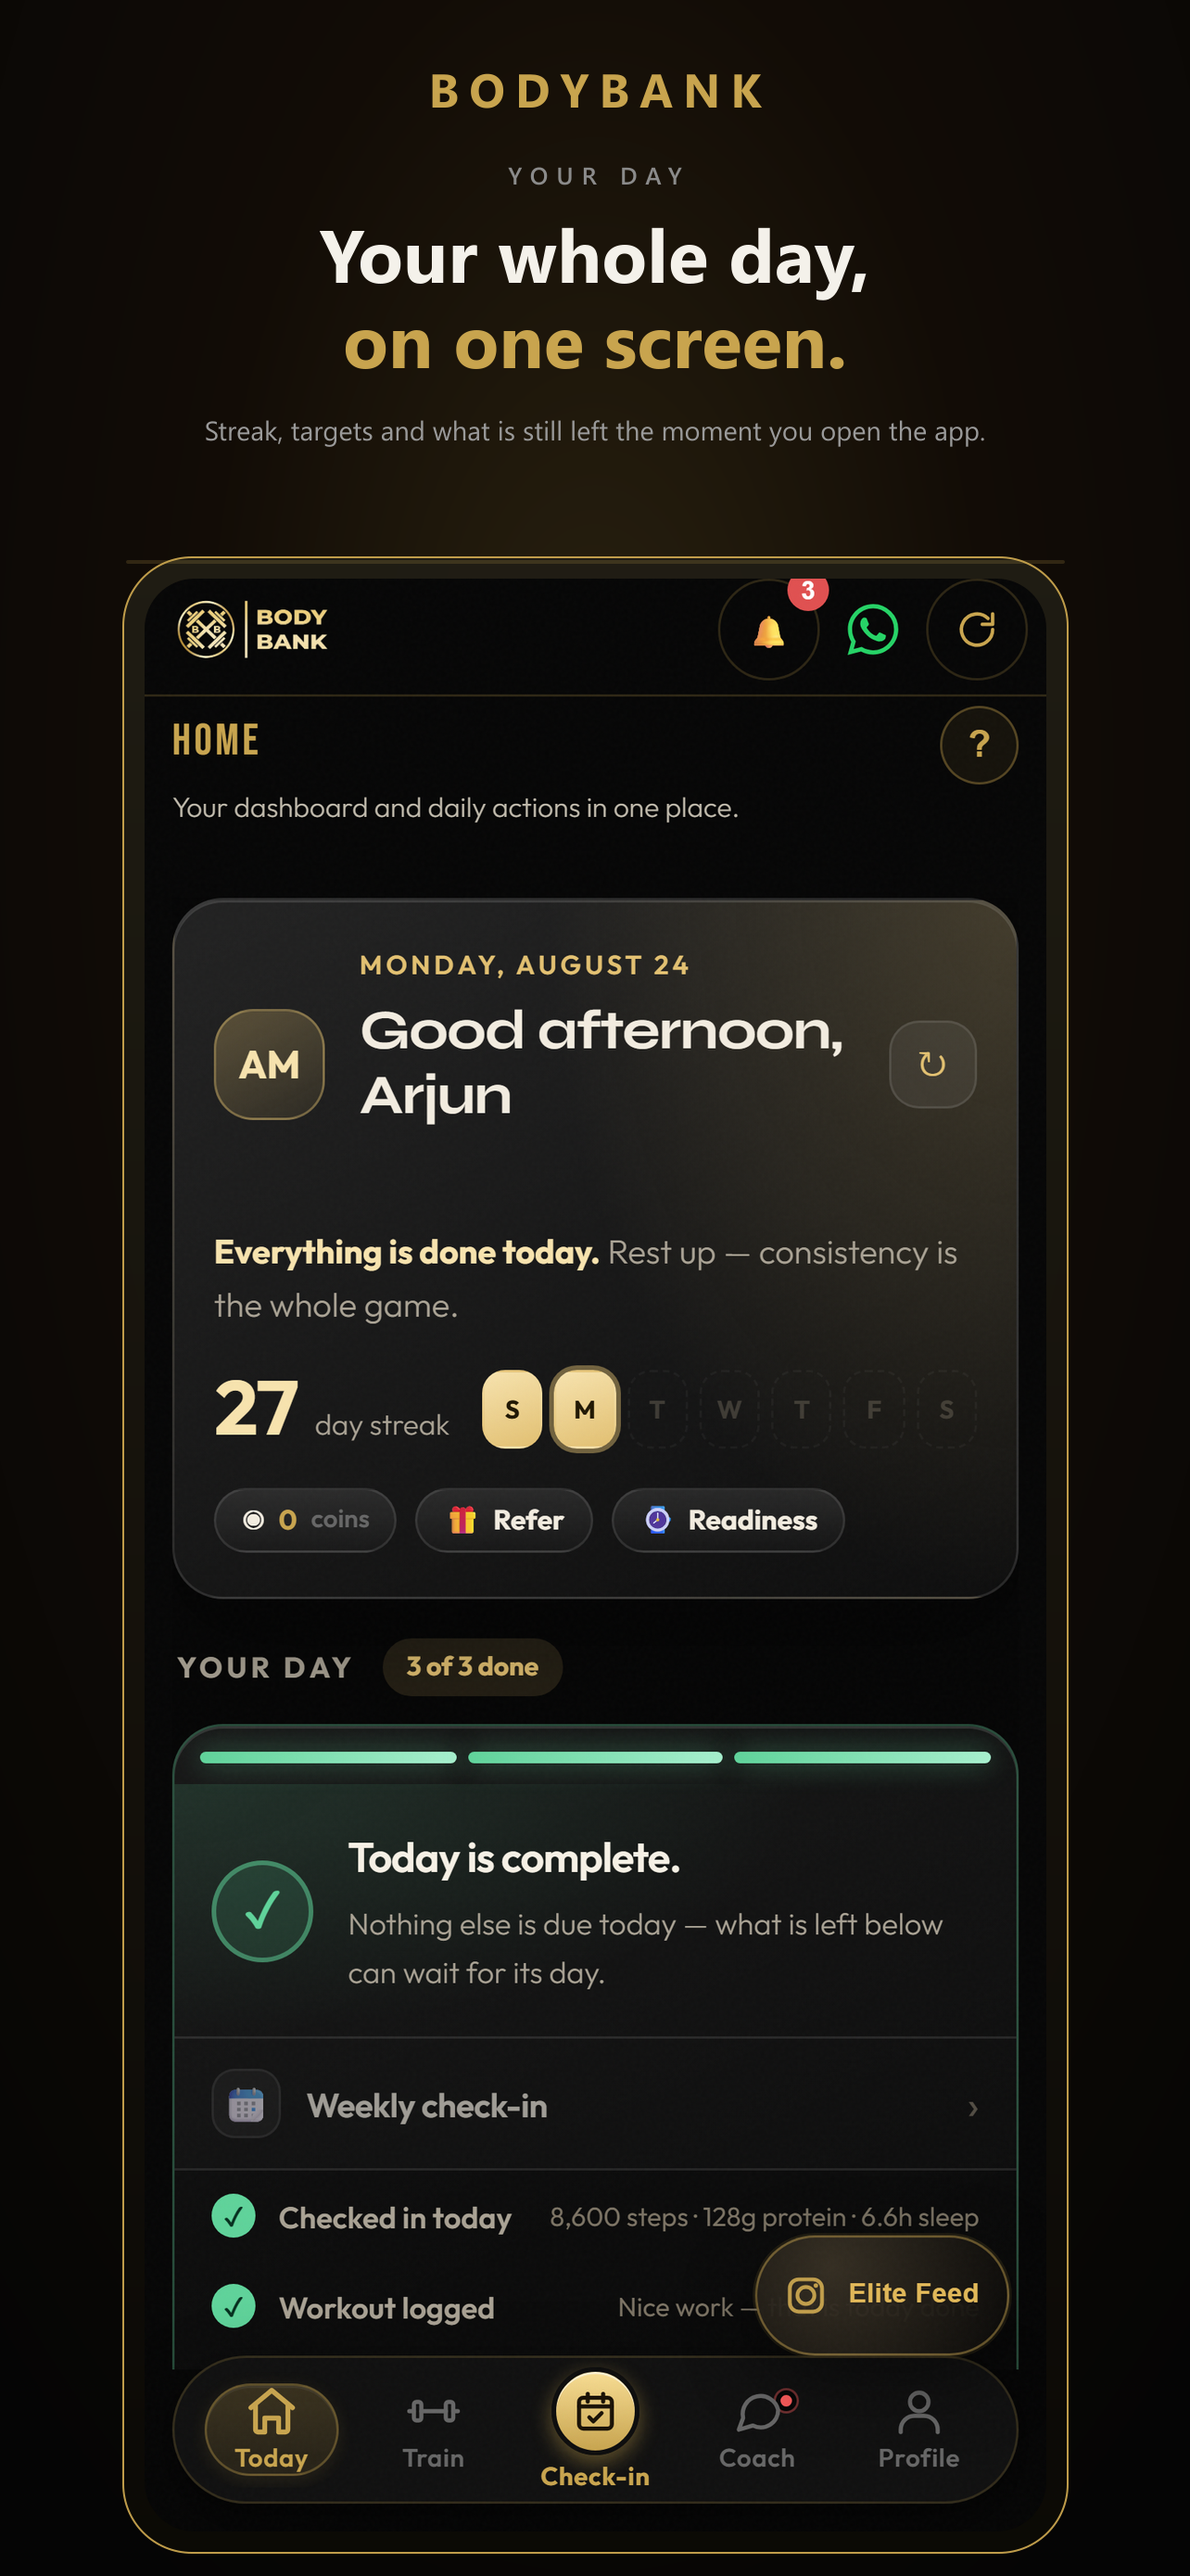
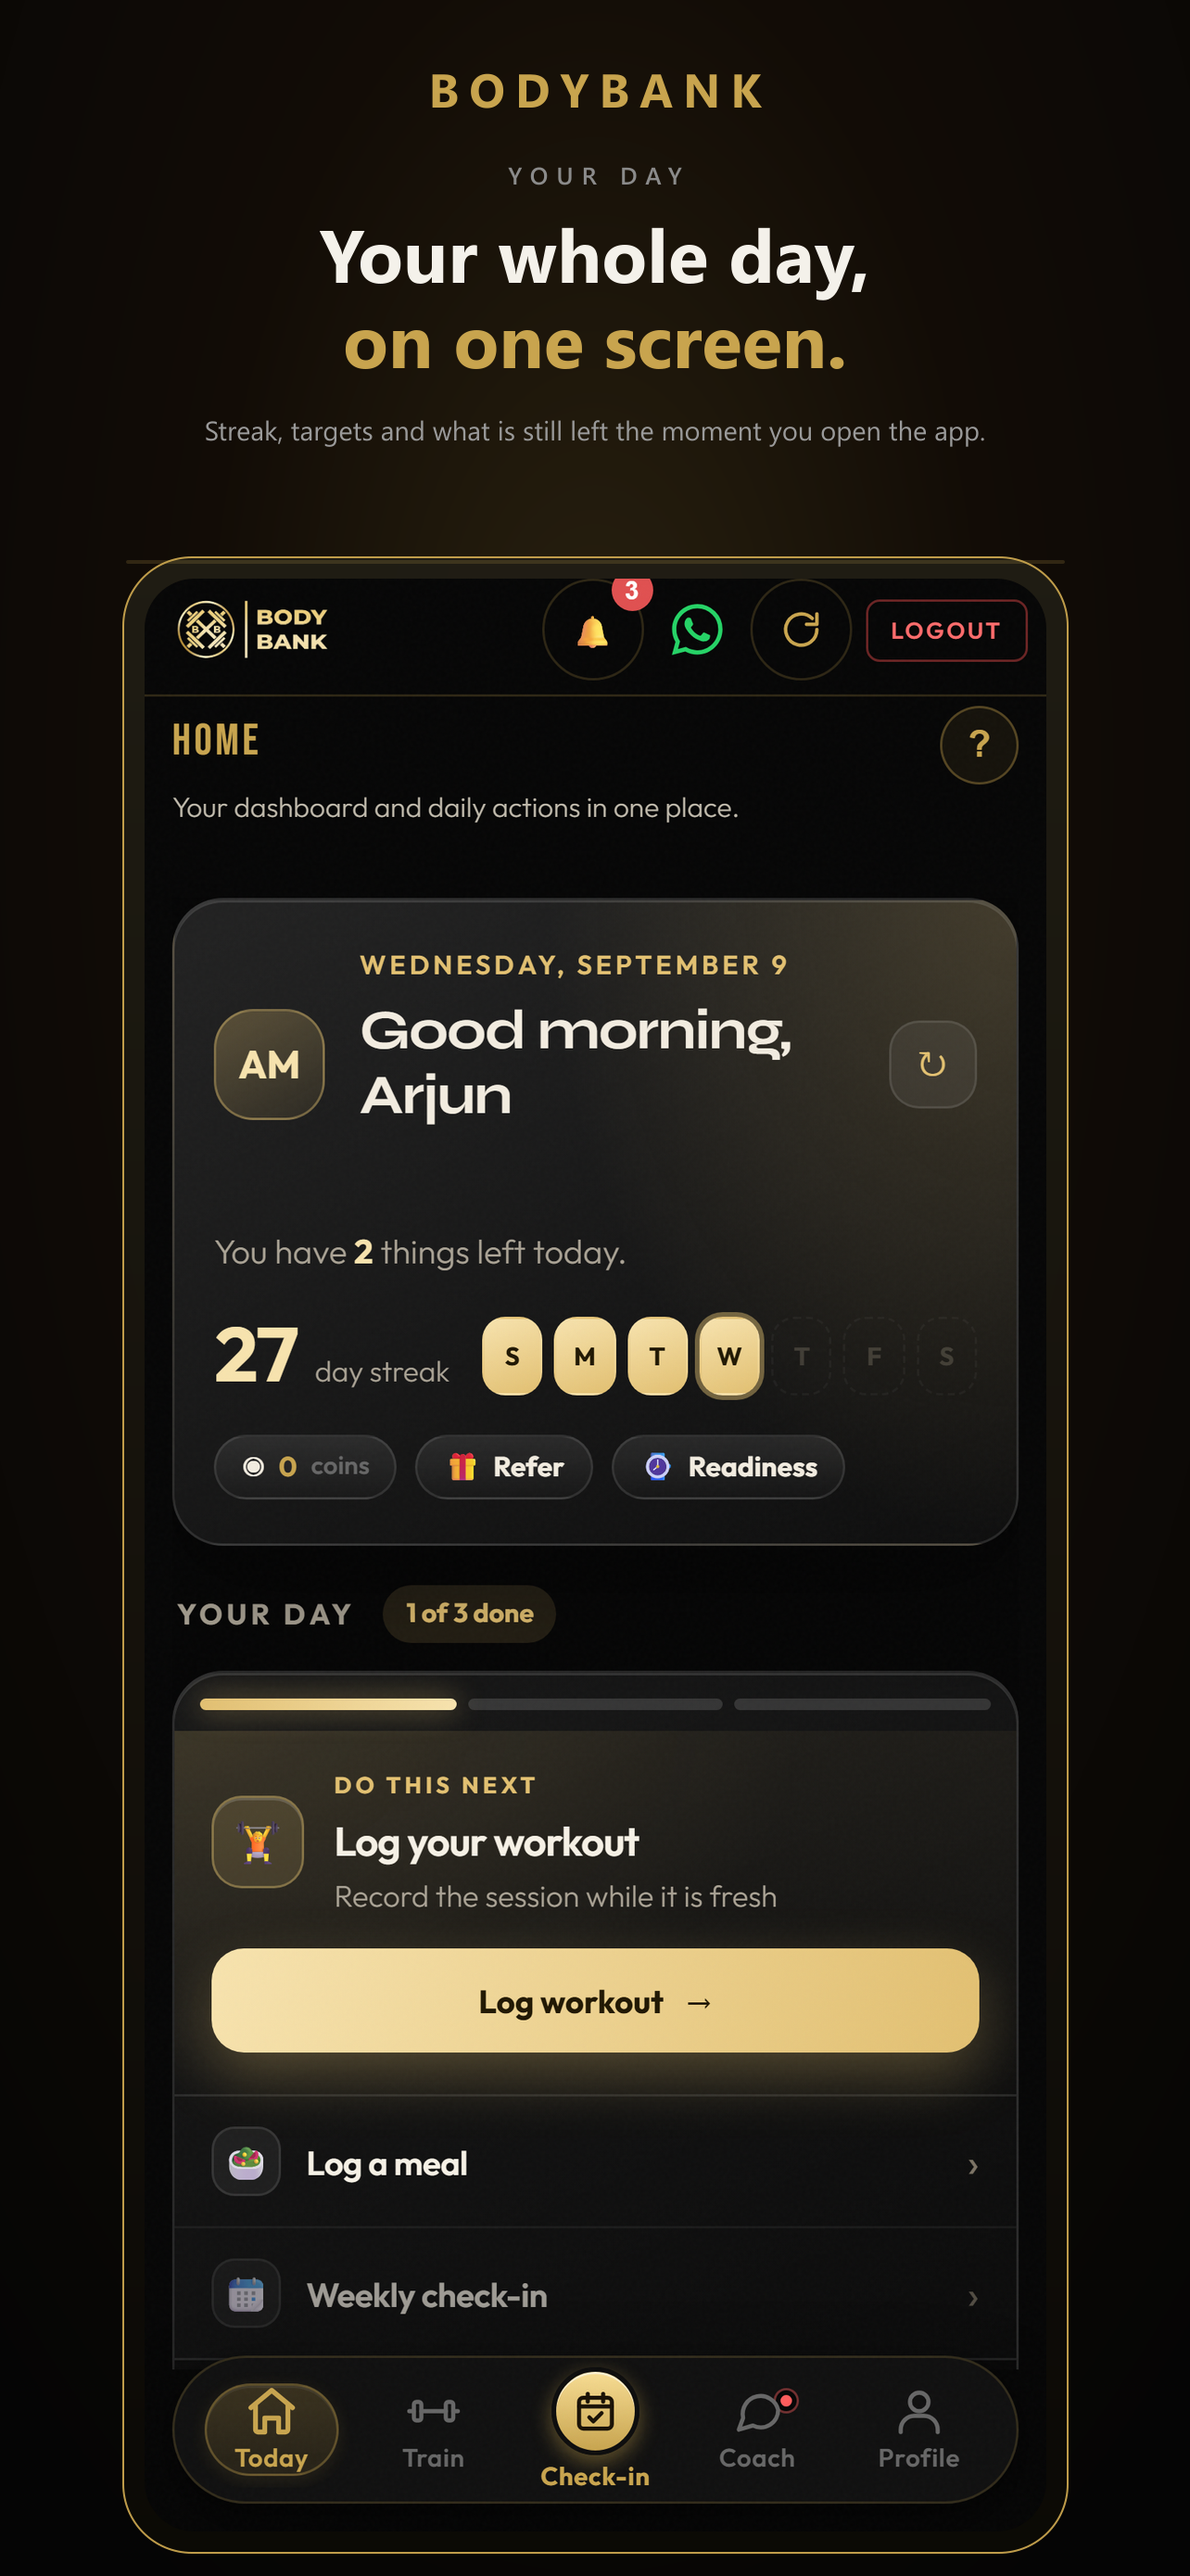
assets(ios): recapture every screenshot after the Elite Feed removal
The previous set advertised a feature the app no longer has: the iPad captures
showed ELITE FEED in the sidebar and the iPhone home panel showed the gold
Elite Feed floating button. Apple's own 2.1 letter reminds you screenshots
must show the actual app in use, and this submission is already being
scrutinised.

All ten panels recaptured from the current build against a freshly seeded demo
member on a server running post-removal code:

  iphone-6.9/  1320x2868   home, goals, coach, check-in, train, week
  iphone-6.5/  1284x2778   same six
  ipad-13/     2064x2752   home, train, coach, landing

source-captures/ now holds the new 1170x2532 phone captures, and the builder
points at them instead of the August Play set.

Demo data removed afterwards and verified: member count back to 9, zero
orphaned thread_messages, and the tribe_members row keyed by email — which
survived deletion in an earlier session — swept as well.

diff --git a/scripts/build-ios-screenshots.js b/scripts/build-ios-screenshots.js
@@ -3,9 +3,9 @@
  * Builds App Store screenshots for every iPhone size App Store Connect asks for.
  *
  * Source: store-assets/screenshots-play-2026-08/source-captures/*.png
- *         (1170x2532 captures of the REAL app, from the live member shell
- *         against a seeded demo account - the same captures the Play listing
- *         uses. No mockups, no real member data.)
+ *         (1170x2532 captures of the REAL app AFTER the Elite Feed removal,
+ *         captured from the live member shell against a seeded demo account.
+ *         No mockups, no real member data.)
  *
  * Output: store-assets/screenshots-ios-2026-09/<size-label>/*.png
  *
@@ -22,7 +22,7 @@ const fs = require('fs');
 const sharp = require('sharp');
 
 const ROOT = path.resolve(__dirname, '..');
-const SRC = path.join(ROOT, 'store-assets', 'screenshots-play-2026-08', 'source-captures');
+const SRC = path.join(ROOT, 'store-assets', 'screenshots-ios-2026-09', 'source-captures');
 const DST = path.join(ROOT, 'store-assets', 'screenshots-ios-2026-09');
 
 const SIZES = [
@@ -36,24 +36,24 @@ const FONT = "Poppins, Montserrat, 'Segoe UI', 'Helvetica Neue', Arial, sans-ser
 
 // Order matters: the App Store shows only the first 1-3 in search results.
 const SCREENS = [
-  { src: '01-home.png', eyebrow: 'YOUR DAY',
+  { src: 'p-01-home.png', eyebrow: 'YOUR DAY',
     line1: 'Your whole day,', line2: 'on one screen.',
     sub: 'Streak, targets and what is still left the moment you open the app.' },
-  { src: '04-food-macros.png', eyebrow: 'NUTRITION',
-    line1: 'Snap the plate.', line2: 'Macros in seconds.',
-    sub: 'Photograph a meal and get calories and macros back automatically.' },
-  { src: '05-messages.png', eyebrow: 'COACHING',
-    line1: 'Your coach,', line2: 'in one thread.',
-    sub: 'A real Lifestyle Manager, not a chatbot and not a forum.' },
-  { src: '02-home-day.png', eyebrow: 'DAILY TARGETS',
+  { src: 'p-02-goals.png', eyebrow: 'DAILY TARGETS',
     line1: 'Today, measured', line2: 'against your goals.',
     sub: 'Steps, water, protein and sleep, tracked against what you set out to do.' },
-  { src: '07-weekly.png', eyebrow: 'WEEKLY REVIEW',
-    line1: 'The week,', line2: 'scored.',
-    sub: 'Every target reviewed, so progress is a number and not a feeling.' },
-  { src: '06-checkin.png', eyebrow: 'CHECK-IN',
+  { src: 'p-04-coach.png', eyebrow: 'COACHING',
+    line1: 'Your coach,', line2: 'in one thread.',
+    sub: 'A real Lifestyle Manager, not a chatbot and not a forum.' },
+  { src: 'p-05-checkin.png', eyebrow: 'CHECK-IN',
     line1: 'Four numbers.', line2: 'Ten seconds.',
     sub: 'A check-in short enough that you actually keep doing it.' },
+  { src: 'p-06-train.png', eyebrow: 'TRAINING',
+    line1: 'Log the session', line2: 'while it is fresh.',
+    sub: 'Programmes assigned by your coach, logged set by set.' },
+  { src: 'p-03-week.png', eyebrow: 'WEEKLY REVIEW',
+    line1: 'The week,', line2: 'scored.',
+    sub: 'Every target reviewed, so progress is a number and not a feeling.' },
 ];
 
 const esc = s => String(s).replace(/&/g, '&amp;').replace(/</g, '&lt;').replace(/>/g, '&gt;');

diff --git a/store-assets/screenshots-ios-2026-09/README.md b/store-assets/screenshots-ios-2026-09/README.md
@@ -1,100 +1,68 @@
 # App Store screenshots — September 2026 (iOS 1.0.0)
 
-Two folders, one per size tab in App Store Connect. Upload the six PNGs from the folder
-matching whichever tab you are on, in filename order. **Only the first 1-3 appear in App
-Store search results**, so keep 01, 02 and 03 at the front.
+**Recaptured 2026-09-09, after the Elite Feed removal.** The previous set showed the
+Elite Feed entry in the iPad sidebar and the Elite Feed floating button on the iPhone home
+screen — a feature the app no longer has. Apple requires screenshots to show the app as it
+actually is, so every panel here was captured again from the current build.
+
+Upload the six PNGs from the folder matching whichever tab you are on, in filename order.
+**Only the first 1-3 appear in App Store search results**, so keep 01, 02 and 03 at the front.
 
 | Folder | Size | App Store Connect tab |
 | ------ | ---- | --------------------- |
 | `iphone-6.9/` | 1320 x 2868 | iPhone 6.9" Display |
 | `iphone-6.5/` | 1284 x 2778 | iPhone 6.5" Display |
+| `ipad-13/`    | 2064 x 2752 | iPad 13" Display |
 
 App Store Connect validates these dimensions exactly. Uploading a 6.9" file into the 6.5"
 tab fails with "The dimensions of one or more screenshots are wrong" — that is a wrong-tab
-error, not a bad file.
+error, not a bad file. You only need to fill ONE iPhone tab; Apple downscales for the rest.
+The iPad tab is required because the app declares `TARGETED_DEVICE_FAMILY = "1,2"`.
+
+## iPhone set
 
 | # | File | Headline | Screen |
 | - | ---- | -------- | ------ |
-| 1 | `01-home.png` | Your whole day, on one screen. | Member home, 27-day streak, "Today is complete" |
-| 2 | `02-food-macros.png` | Snap the plate. Macros in seconds. | Meal photos, macros, meal score |
-| 3 | `03-messages.png` | Your coach, in one thread. | Coach thread with the Lifestyle Manager |
-| 4 | `04-home-day.png` | Today, measured against your goals. | Steps / water / protein / sleep vs targets |
-| 5 | `05-weekly.png` | The week, scored. | Last-week performance |
-| 6 | `06-checkin.png` | Four numbers. Ten seconds. | Daily check-in inputs |
+| 1 | `01-home.png`    | Your whole day, on one screen. | Member home — 27-day streak, Your Day |
+| 2 | `02-goals.png`   | Today, measured against your goals. | Steps / water / protein / sleep vs targets |
+| 3 | `03-coach.png`   | Your coach, in one thread. | Coach thread with the Lifestyle Manager |
+| 4 | `04-checkin.png` | Four numbers. Ten seconds. | Daily check-in |
+| 5 | `05-train.png`   | Log the session while it is fresh. | Workout logging |
+| 6 | `06-week.png`    | The week, scored. | Weekly score and progress |
 
-Each file is roughly 2-3 MB, well inside Apple's 8 MB cap.
+## iPad set
+
+| # | File | Screen |
+| - | ---- | ------ |
+| 1 | `01-home.png`    | Member home on iPad — sidebar nav, streak, goals, weekly score |
+| 2 | `02-train.png`   | Workout logging — timer, intensity/energy, notes |
+| 3 | `03-coach.png`   | Coach thread |
+| 4 | `04-landing.png` | Signed-out landing page |
+
+The iPad files are **straight captures, not composites**: headless Chrome at a 1032 x 1376
+viewport with `deviceScaleFactor: 2` lands exactly on 2064 x 2752, so no rescaling or
+framing is applied. At that width the member shell switches to its desktop layout with a
+left sidebar, which is the real behaviour a reviewer sees.
 
 ## How they were made
 
-`scripts/build-ios-screenshots.js` composes them from
-`store-assets/screenshots-play-2026-08/source-captures/*.png` — 1170 x 2532 captures of the
-**real running app**, taken from the live member shell against a seeded demo account
-(`store.demo@bodybank.fit`, "Arjun Mehta") that was deleted afterwards. No mockups, and no
-real member's data appears.
+1. A temporary demo member (`store.shot@bodybank.fit`, "Arjun Mehta") was seeded into the
+   LOCAL dev database with 27 days of check-ins, a weight trend and a coach thread — the
+   real local data has too little activity, so every screen would capture as an empty state.
+2. A server was started on port 3099 running the **current** code, and the capture script
+   signed in through the real form. (The dev server mints a random per-process JWT secret,
+   so an externally minted token will not verify.)
+3. `scripts/build-ios-screenshots.js` composed the iPhone panels from the 1170 x 2532
+   captures in `source-captures/`. The display area keeps the capture's native aspect, so
+   nothing is stretched or cropped; only the framing is composed.
+4. The demo account was deleted and verified: member count back to 9, zero orphaned
+   `thread_messages`, and a `tribe_members` row keyed by **email** rather than user_id was
+   swept too — that one survived deletion in an earlier session.
 
-Both sizes share one proportional layout, so the set looks identical in either tab. The
-display area keeps the capture's native 1170:2532 aspect, so nothing is stretched or
-cropped; only the framing is composed — gold radial ground, BODYBANK wordmark, eyebrow,
-two-line headline, subline, gold-edged bezel — matching the Play listing so both stores
-read as one brand.
+**No real member's data appears in any screenshot.**
 
-Rebuild both sets with:
+Rebuild the iPhone panels from the existing captures with:
 
 ```powershell
 node scripts/build-ios-screenshots.js
 ```
-
-To add another size, append to `SIZES` at the top of that script; the layout scales itself.
-
-## Still outstanding: iPad
-
-The app ships with `TARGETED_DEVICE_FAMILY = "1,2"`, so App Store Connect **also requires an
-iPad 13" set at 2064 x 2752** (minimum 3), and will not accept a submission without it.
-Those need fresh captures at an iPad viewport — a 1170 x 2532 phone capture cannot honestly
-be reframed into a 3:4 canvas. Either capture them, or drop to iPhone-only by setting
-`TARGETED_DEVICE_FAMILY = "1"`.
-
----
-
-## iPad 13" set (added September 2026)
-
-`ipad-13/` holds four **2064 x 2752** captures for the **iPad 13" Display** tab. Upload all
-four in filename order.
-
-| # | File | Screen |
-| - | ---- | ------ |
-| 1 | `01-home.png` | Member home on iPad — sidebar nav, 27-day streak, Your Day, goals vs targets, weekly score |
-| 2 | `02-workout.png` | Workout logging — session timer, intensity/energy, notes |
-| 3 | `03-coach.png` | Coach thread with the Lifestyle Manager |
-| 4 | `04-landing.png` | Signed-out landing page |
-
-These are **straight captures, not composites**. Headless Chrome at a 1032 x 1376 viewport
-with `deviceScaleFactor: 2` produces exactly 2064 x 2752, so no rescaling or framing is
-applied and what Apple sees is what an iPad renders.
-
-The app is responsive rather than iPad-specific: at this width the member shell switches to
-its desktop layout with a left sidebar, which is why these look nothing like the phone
-panels. That is the real behaviour a reviewer will see.
-
-### Reproducing them
-
-Capture scripts live in a scratchpad, not the repo, because they need a running local
-server and a seeded database:
-
-1. `seed-ipad-demo.js` — creates `ipad.demo@bodybank.fit` ("Arjun Mehta") with 27 days of
-   check-ins, a weight trend and a coach thread. Every id column in `daily_checkins`,
-   `weight_logs`, `message_threads` and `thread_messages` is `text` with **no default**, so
-   ids must be supplied explicitly.
-2. `capture-ipad.js` — signs in through the real form (the dev server generates a random
-   per-process JWT secret, so an externally minted token will not verify), clears the
-   onboarding/guide/photo-prompt gates, then drives `switchUserTab()` between screens.
-3. `cleanup-ipad-demo.js` — deletes every seeded row and verifies the counts.
-
-The demo account was removed after capture: member count returned to 9, zero orphaned
-`thread_messages`. **No real member's data appears in any screenshot.**
-
-### A note on screen choice
-
-Content-light screens look sparse on a 13" canvas — the check-in chooser is two cards on a
-mostly empty page. The four above were picked because they fill the frame. If you add more,
-prefer screens with real content over navigation screens.
